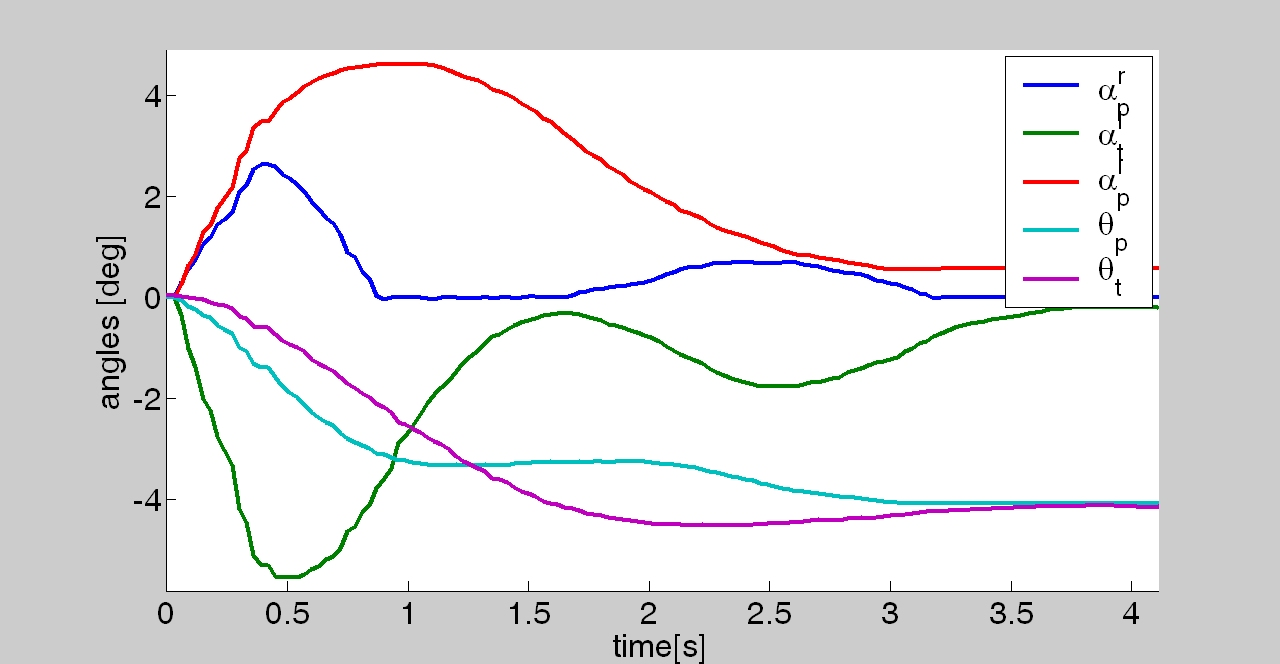
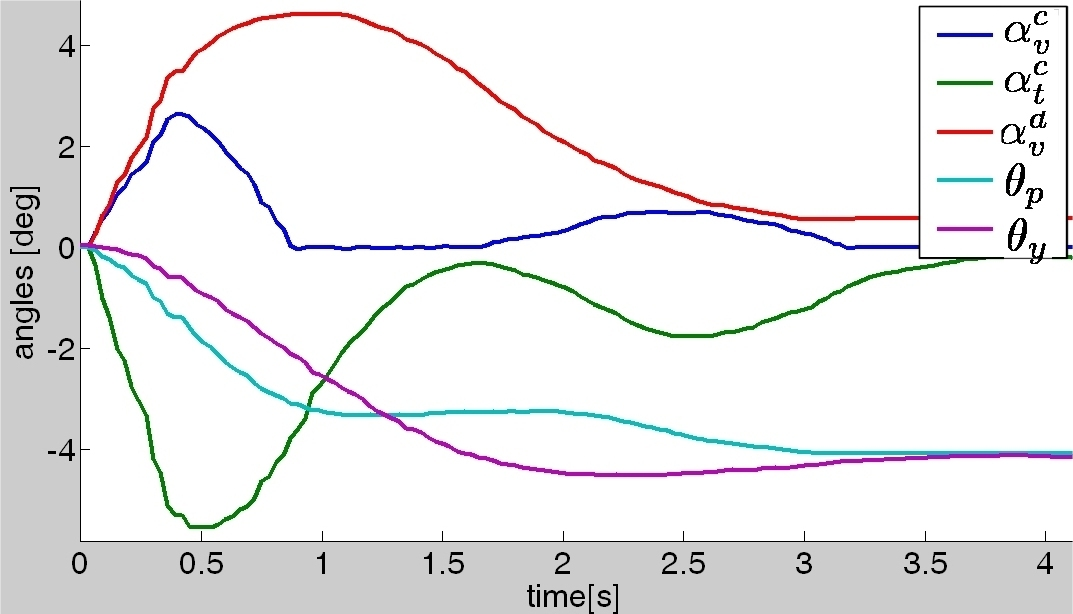
"Vergence control section modified"
svn path=/trunk/Papers/; revision=4675

diff --git a/ToyotaReport06/VergenceControl.tex b/ToyotaReport06/VergenceControl.tex
@@ -19,49 +19,31 @@ where the function $\tilde f_{head} : \mathbb R^6 \longrightarrow \mathbb R^4$ d
 \begin{eqnarray*}
 \mathbf x_c = f_{head} (\mathbf q_{head}), \qquad f_{head} : \mathbb R^6 \longrightarrow \mathbb R^3.
 \end{eqnarray*}
-Clearly, the task specification does not constrain all the head degrees of freedom. Roughly speaking\footnote{More formally, let $\bar {\mathbf q}_{head} = \begin{bmatrix} \bar {\mathbf q}_{eyes} & \bar {\mathbf q}_{neck} \end{bmatrix}$ be a fixating configuration, i.e. $f_{head}(\bar {\mathbf q}_{head}) = 0$. Moreover, let's assume that the given head configuration is non-singular, i.e. the Jacobian of $\frac{\partial f_{head}}{\partial \mathbf q_{head}}(\bar {\mathbf q}_{head})$ has full row rank. Then, by the implicit function theorem there exists a function $\mathbf q_{neck}(\cdot): \mathbb R^3 \longrightarrow \mathbb R^3$ (locally defined around $\bar {\mathbf q}_{eyes}$) such that $f_{head}({\mathbf q}_{eyes}, {\mathbf q}_{neck} ({\mathbf q}_{eyes}) ) = 0$ for all the configuration ${\mathbf q}_{eyes}$ belonging to the neighborhood of $\bar {\mathbf q}_{eyes}$.}, we are imposing $m=3$ constraints but we have $n=6$ free variables available so that we remain with $n-m=3$ additional degrees of freedom. Practically, we can have different configuration of the head ($\mathbf q_{head,1} \neq \mathbf q_{head,2}$) both keeping the same target in fixation (${\mathbf x}_{c,1} = {\mathbf x}_{c,2} = 0$). This redundancy issue has to be addressed carefully given the kinematic and dynamic properties of the head. Specifically, 
+Clearly, the task specification does not constrain all the head degrees of freedom. Roughly speaking\footnote{More formally, let $\bar {\mathbf q}_{head} = \begin{bmatrix} \bar {\mathbf q}_{eyes} & \bar {\mathbf q}_{neck} \end{bmatrix}$ be a fixating configuration, i.e. $f_{head}(\bar {\mathbf q}_{head}) = 0$. Moreover, let's assume that the given head configuration is non-singular, i.e. the Jacobian of $\frac{\partial f_{head}}{\partial \mathbf q_{head}}(\bar {\mathbf q}_{head})$ has full row rank. Then, by the implicit function theorem there exists a function $\mathbf q_{neck}(\cdot): \mathbb R^3 \longrightarrow \mathbb R^3$ (locally defined around $\bar {\mathbf q}_{eyes}$) such that $f_{head}({\mathbf q}_{eyes}, {\mathbf q}_{neck} ({\mathbf q}_{eyes}) ) = 0$ for all the configuration ${\mathbf q}_{eyes}$ belonging to the neighborhood of $\bar {\mathbf q}_{eyes}$.}, we are imposing $m=3$ constraints but we have $n=6$ free variables available so that we remain with $n-m=3$ additional degrees of freedom. Practically, we can have different configuration of the head ($\mathbf q_{head,1} \neq \mathbf q_{head,2}$) both keeping the same target in fixation (${\mathbf x}_{c,1} = {\mathbf x}_{c,2} = 0$). This redundancy issue has to be addressed carefully given the kinematic and dynamic properties of the head. Specifically, a trivial solution (such as constraining/blocking three degrees of freedom out of six) is not to be recommended since a good tracking behavior should involve all the  head degrees of freedom. Therefore, a good tracker should take advantage of the eyes reduced inertia to perform fast movements; at the same time the eyes limited range of movements should be overcome by moving the neck which is instead capable of wider movements.
 
+With these ideas in mind the strategy we have chosen consists in using the eyes version and common tilt to perform a sort of saccadic movement on the desired target and then to follow the movement of the eyes with the neck yaw and pitch, respctively. This choice is a consequence of the fact that the eyes can make fast movements because of their low inertia. However, their range of movement is small if compared with the neck movement which is characterized by a pretty big range even if with a bigger inertia. This strategy allows us to keep the target always at the center of the image while also allowing fast and large movements for the target itself. Mathematically the above strategy can be implemented as follows:
 
-
-Specifically, the target location with respect to the head position is represented by a three dimensional vector 
-
-We implemented a control strategy for verging on a target (blue ball) which has been attached to the robot hand. We assume that there's an attention system on the robot capable of localizing the target on the image plane. 
-
-The strategy we have chosen consists in using a dominant eye (in our case the left eye) to perform a saccade on the desired target and then to follow the dominant eye movement with the neck. This choice is a consequence of the fact that the eyes can make fast movement because of their low inertia. However, their range of movement is small if compared with the neck movement which is characterized by a pretty big range even if with a bigger inertia. This strategy allows us to keep the target always at the center of the image while also allowing a big range of movement for the target itself. Mathematically the above strategy can be implemented as follows:
-
-\begin{eqnarray} 
-\left\{ \begin{matrix}
-\frac{d \alpha_p^l}{ d t} &=&   K_p u_l\\
-\frac{d \theta_y}{ d t} &=&   K_y \alpha_p^l \\
-\frac{d \alpha_t^l} {d t} &=&   K_t v_l\\
-\frac{d \theta_p} {d t} &=&   K_r \alpha_t^l
-\end{matrix} \right.,
-\end{eqnarray}
-where $\alpha_p^l$ and $\alpha_t^l$ are the pan and tilt positions of the left eye and where $\theta_y$ and $\theta_p$ are the yaw and pitch movement of the neck. This control strategy allows us to asymptotically fixate the target with the left eye ($u_l \rightarrow 0$, $v_l \rightarrow 0$) while also also guaranteeing an asymptotically  straight gaze ($\alpha_p^l \rightarrow 0$, $\alpha_t^l \rightarrow 0$). Another possible control strategy which takes into account the fact that the eye movements anticipate the neck movements is the following:
 \begin{eqnarray} \label{Eq:HeadEyeControl}
 \left\{ \begin{matrix}
-\frac{d \alpha_p^l}{ d t} &=&   K_p u_l\\
-\frac{d \theta_y}{ d t} &=&   K_y \alpha_p^l + K_{yp} u_l\\
-\frac{d \alpha_t^l} {d t} &=&   K_t v_l\\
-\frac{d \theta_p} {d t} &=&   K_r \alpha_t^l + K_{yt} v_l
-\end{matrix} \right. .
+\frac{d \alpha_v^c}{ d t} &=&   K_p (u_l + u_r)\\
+\frac{d \theta_y}{ d t} &=&   K_y \alpha_v^c \\
+\frac{d \alpha_t^c} {d t} &=&   K_t (v_l + v_r)\\
+\frac{d \theta_p} {d t} &=&   K_r \alpha_t^c
+\end{matrix} \right.,
 \end{eqnarray}
-In order to verge on the target (i.e. $u_l \rightarrow 0$, $v_l \rightarrow 0$, $u_r \rightarrow 0$, $v_r \rightarrow 0$), we need also to guarantee that $u_r \rightarrow 0$ and $v_r \rightarrow 0$. Assuming that the two cameras are aligned (up to a calibration of the system), we have that $v_r \rightarrow 0$ is automatically implied by $v_l \rightarrow 0$. We are therefore left with guaranteeing that $u_r \rightarrow 0$. This is trivially guaranteed by the following control law:
-\begin{eqnarray} \label{Eq:EyeVergenceControl}
-\frac{d \alpha_p^r}{ d t} &=&   K_p u_r
+where $\alpha_t^c$ and $\alpha_v^c$ are the eyes version and common tilt and where $\theta_y$ and $\theta_p$ are the yaw and pitch movement of the neck. In the proposed control scheme, the vergence degree of freedom $\alpha_v^d$, which somehow corresponds to the distance of the target does not influence the neck position and is therefore controlled separately from the neck:
+\begin{eqnarray} 
+\frac{d \alpha_v^d}{ d t} &=&   K_p (u_l - u_r).
 \end{eqnarray}
-Using the above control strategy (\ref{Eq:HeadEyeControl}) and (\ref{Eq:EyeVergenceControl}),  we obtained the tracking results shown in Figure \ref{Fig:TimeResponse}.
+Finally, the neck roll degree of freedom $\theta_r$ is kept fixed, i.e. $\theta_r^d=0$.
 
-\begin{figure}[tbp]
+The proposed control strategy allows us to asymptotically fixate the target ($u_l \rightarrow 0$, $v_l \rightarrow 0$, $u_r \rightarrow 0$ which implies $v_r \rightarrow 0$) while also also guaranteeing an asymptotically  straight gaze ($\alpha_v^c \rightarrow 0$, $\alpha_t^c \rightarrow 0$). Moreover, by choosing a suitable value for the gains $K_p$, $K_y$, $K_t$ and $K_r$ it is possible to achieve an asymptotic behavior with the eyes moving rapidly on the target and the neck following the eye movement with a slower movement. Using the this control strategy (\ref{Eq:HeadEyeControl}), we obtained the tracking results shown in Figure \ref{Fig:TimeResponse}.
+
+
+\begin{figure}[h!]
 \centering
-\includegraphics[width=130mm]{Figure/TimeResponseImage.jpg}
-\caption{The picture shows the time response of the tracking behavior of the fixation controller. The picture shows that the target is effectively driven to the image center (up to an accuracy of one pixel).}
+\includegraphics[width=100mm]{Figure/TimeResponseImage.jpg}\\ \vspace{1cm}
+\includegraphics[width=100mm]{Figure/TimeResponseEyesNeck.jpg}
+\caption{The top picture shows the time response of target position ($u_l$, $v_l$, $u_r$) during a fixation movement. It can be seen that the target is effectively driven to the image center (up to an accuracy of one pixel). The bottom picture shows the time response of the head position ($\alpha_v^c$, $\alpha_v^d$, $\alpha_t^c$, $\theta_p$, $\theta_y$; the values of $\alpha_t^d$ and $\theta_r$ are omitted since they are kept constantly zero) during a fixation movement. The picture shows that the dominant eye (left eye) is effectively driven to straight gaze configuration ($\alpha_p^l \rightarrow 0$, $\alpha_t^l \rightarrow 0$ up to an accuracy of one degree). The neck is instead positioned so as to face the target.}
 \label{Fig:TimeResponse}
-\end{figure}
-
-\begin{figure}[tbp]
-\centering
-\includegraphics[width=130mm]{Figure/TimeResponseEyesNeck.jpg}
-\caption{The picture shows the time response of the tracking behavior of the fixation controller. The picture shows that the dominant eye (left eye) is effectively driven to straight gaze configuration ($\alpha_p^l \rightarrow 0$, $\alpha_t^l \rightarrow 0$ up to an accuracy of one degree). The neck is instead positioned so as to face the target.}
-\label{Fig:TimeResponseNeck}
 \end{figure}
